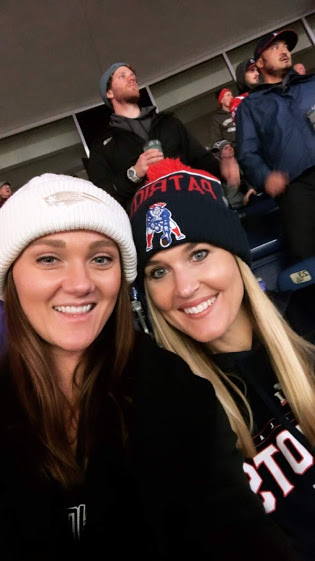
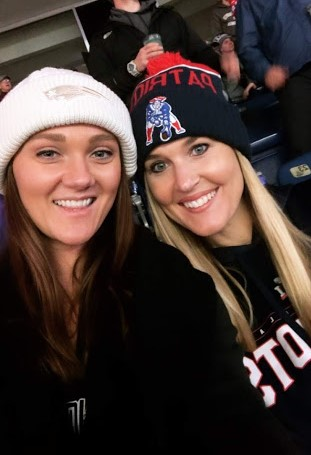
change profile pic size

diff --git a/index.html b/index.html
@@ -40,10 +40,10 @@
             </div>
         </div>
         <div class="row">
-            <div class="col-md-3">
-                <img src="" alt="">
+            <div class="col-md-4">
+                <img src="./assets/images/patriots.JPG" alt="Patriots Game with Cousin">
             </div>
-            <div class="col-md-"> 
+            <div class="col-md-4"> 
                 <p> Jump around to learn a little more about me... </p>
 
             </div>

diff --git a/assets/style.css b/assets/style.css
@@ -9,3 +9,5 @@ body{
     -webkit-box-shadow:inset 0 0 20px 2px #333;
   box-shadow:inset 0 0 200px 2px #333;
   }
+
+ 
